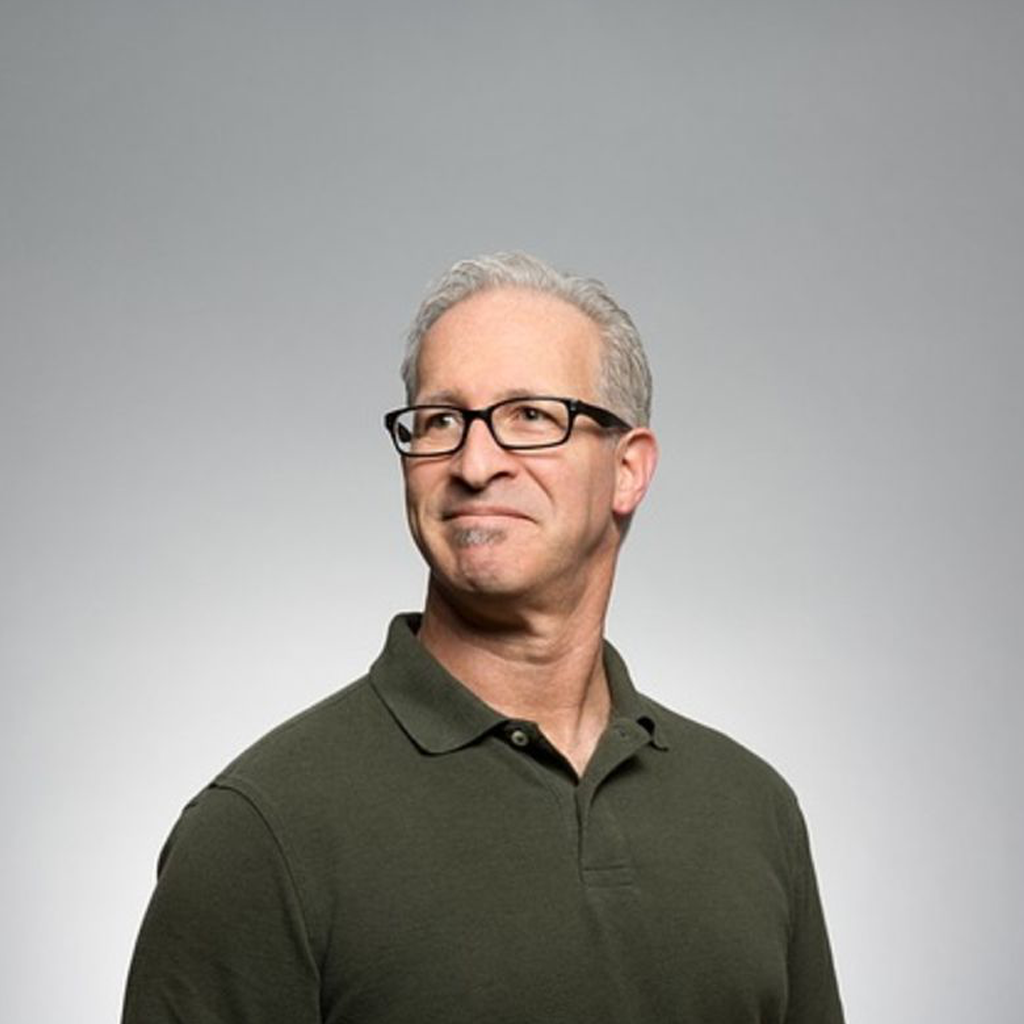
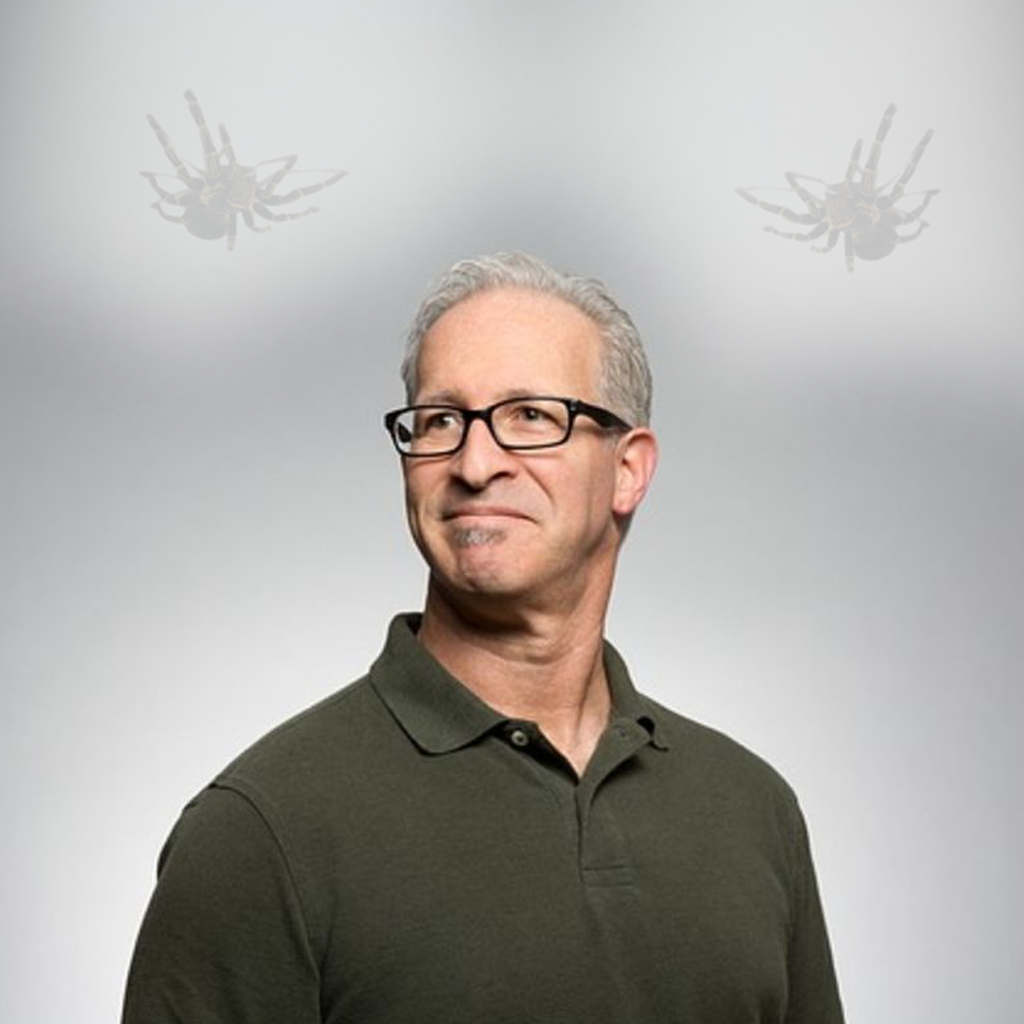
midterm more
more

Changed region(s): [[0.0, 0.0, 1.0, 0.375]]

diff --git a/midterm/index.html b/midterm/index.html
@@ -40,7 +40,7 @@
         
       <style type="text/css">
         .modal-newsletter {	
-          color: #999;
+          color: rgb(0, 0, 0);
           position: relative;  
           width: auto;
           font-size: 15px;
@@ -227,13 +227,26 @@
             </a>
           </div>
           
+
+
+
+
+          
             <div class="row justify-content-center">
               <div class="col" style="text-align: center">
                 <button type="button" class="btn btn-danger"  id="carouselControl">Pause</button>
               </div>
             </div>
+
+
+         
+
+
+
+
+
         <div class="jumbotron jumbotron-fluid" img src="tar222.png" alt="">
-            <h1 class="display-4 text-dark">Home</h1>
+            <h1 class="display-4 text-dark">We care!</h1>
             </div>
   <div class="alert alert-danger" role="alert">
       Call 310-555-5555 now for 50% off training and sitting!
@@ -284,12 +297,12 @@
           <div class="modal-content">
             <form action="/examples/actions/confirmation.php" method="post" class="was-validated">
               
-              <div class="modal-header">
-                <h4>Subscribe to our newsletter</h4>	
+              <div class="row justify-content-center text-dark">
+                <h5>Subscribe to our newsletter</h5>	
                 <button type="button" class="close" data-dismiss="modal" aria-hidden="true"><span>&times;</span></button>
               </div>
-              <div class="modal-body">					
-                <p>Signup for our weekly newsletter to get the latest news, updates and amazing offers delivered directly in your inbox.</p>
+              <div class="modal-body text-dark">					
+                <p>Signup for the latest Tarantula news, updates and amazing offers delivered directly in your inbox.</p>
                 <div class="input-group">
                     <div class="row justify-content-center">
                   <input type="email" class="form-control" placeholder="Email" name="email" required="true">

diff --git a/midterm/about.html b/midterm/about.html
@@ -86,7 +86,7 @@
       
     <picture>
         <source srcset="" type="image/svg+xml">
-        <img src="tar2.png" class="img-fluid" alt="">
+        <img src="tar21.png" class="img-fluid" alt="">
       </picture>
     
     
